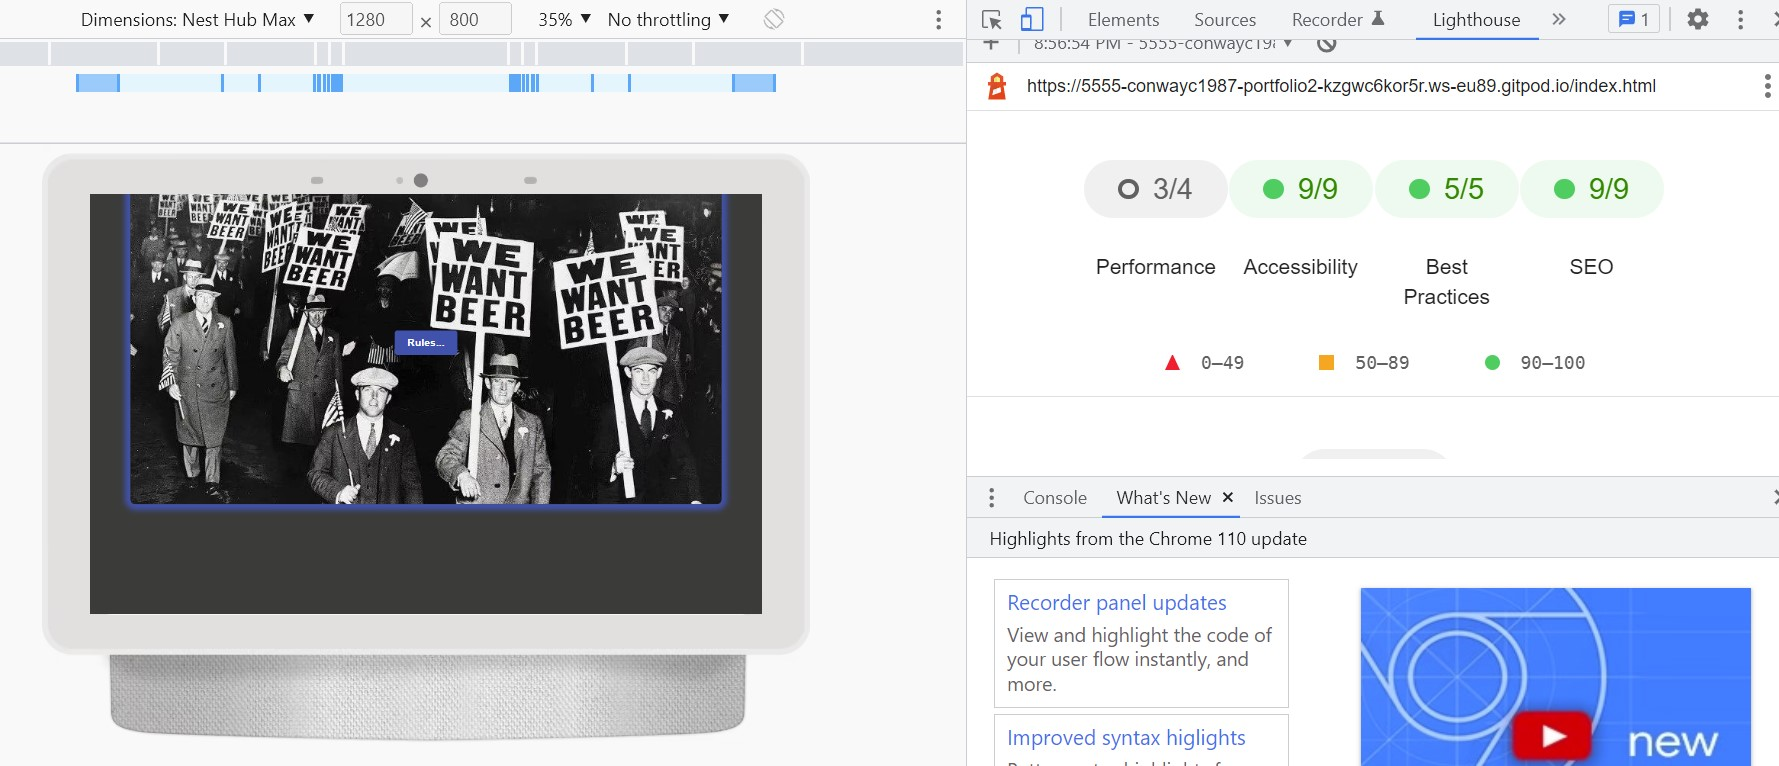
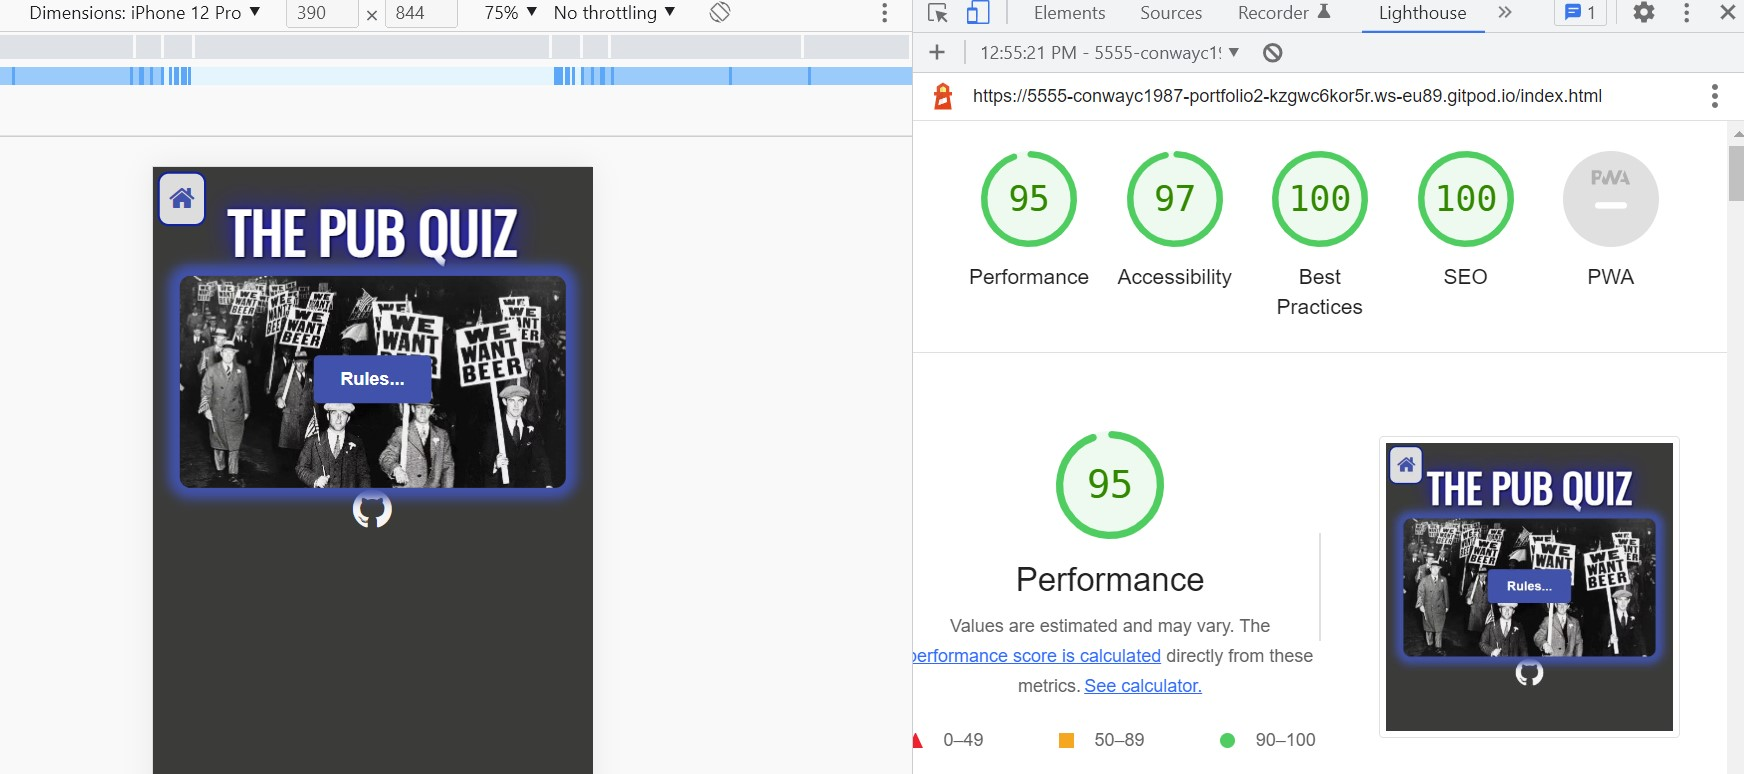
Add images for README file

diff --git a/assets/js/script.js b/assets/js/script.js
@@ -174,6 +174,7 @@ let playB = document.getElementById("play");
 playB.onclick = function () {
   modal.style.display = "none";
   document.getElementById("secondP").style.display = "none";
+  document.getElementById("githubIcon").style.display = "none";
   document.getElementById("gameTitle").style.display = "none";
   document.getElementById("gameArea").style.display = "block";
   makeQuestion();
@@ -197,8 +198,8 @@ function makeQuestion() {
   let option2 = document.getElementById("option2");
   let ques = questions[currentQ];
   question.innerHTML = "<p>" + ques.question + "</p>";
-  qImg.innerHTML = "<img src=" + ques.imgSrc + ">";
-  qImg1.innerHTML = "<img src=" + ques.imgSrc1 + ">";
+  qImg.innerHTML = "<img src=" + ques.imgSrc + " alt=" + option1 +">";
+  qImg1.innerHTML = "<img src=" + ques.imgSrc1 + " alt=" + option2 +">";
   option1.innerHTML = ques.option1;
   option2.innerHTML = ques.option2;
 }
@@ -287,13 +288,10 @@ const scoreDiv = document.getElementById("scoreContainer");
 // Function to display score results section
 function scoreRender() {
   scoreDiv.style.display = "block";
-
-
   // Calculate the amount of question percent answered by the user
   const scorePer = Math.round(100 * score / questions.length);
   document.getElementById("gameArea").style.display = "none";
   document.getElementById("modalResults").style.display = "block";
-
   scoreDiv.style.display = "block";
   scoreDiv.innerHTML += "<p>" + scorePer + "%</p>";
 

diff --git a/assets/css/style.css b/assets/css/style.css
@@ -486,12 +486,12 @@ button {
   text-align: center;
   font-weight: bolder;
 }
-
+/* Results button styling */
 #results #play:hover {
   background-color: whitesmoke;
   color: #3b51ab;
 }
-
+/* Results exist button styling */
 #results #exist {
   background-color: #3b51ab;
   color: white;
@@ -508,6 +508,17 @@ button {
   background-color: whitesmoke;
   color: #3b51ab;
 }
+/* Footer styling */
+#githubIcon {
+  padding: 10px 10px 0px 10px;
+  bottom: 0;
+  width: 100%;
+  /* Height of the footer*/
+  height: 40px;
+  background: rgba(59, 59, 57, 0);
+  margin-bottom: 1%;
+}
+
 
 /* ______________________________________Media Queries_____________________________________________*/
 
@@ -566,6 +577,9 @@ button {
 @media (max-width: 415px) {
   #counter {
     margin-left: 135px;
+  }
+  #rules {
+    padding: 5%;
   }
 
   .option-left {
@@ -768,6 +782,10 @@ button {
   }
 
   #landingPage #begin {
+    font-size: medium;
+  }
+
+  #rulesPage #rules {
     font-size: medium;
   }
 

diff --git a/index.html b/index.html
@@ -21,7 +21,7 @@
 <body>
     <header>
         <div id="navbar">
-            <button id="refresh-button"><i class="fa fa-home" aria-hidden="true"></i></button>
+            <button aria-label="home page" id="refresh-button"><i class="fa fa-home" aria-hidden="true"></i></button>
             
           </div>
         <!-- Title of the game -->
@@ -137,7 +137,7 @@
             </div>              
         </div>     
     </main>
-    <footer><a target="_blank" href="https://github.com/ConwayC1987"><i class="fa fa-github" style="font-size:48px;color:whitesmoke"></i></a></footer>
+    <footer id ="githubIcon"><a target="_blank" href="https://github.com/ConwayC1987"><i class="fa fa-github" alt="github link" style="font-size:40px;color:whitesmoke"></i></a></footer>
     <script src="assets/js/script.js"></script>
 </body>
 

diff --git a/README.md b/README.md
@@ -13,6 +13,7 @@ For `Project-2` it was decided to create a quiz game that I would like to play m
 Read more : <details>
            <summary>The Game</summary>
            <p>It was decided that I would use two options for the answers giving the user a 50/50 chance of getting it right making it more fun. 65% of people's brain work visually meaning they find it easier seeing images so it was decided that each question how have an image associated with it. The questions I decided to select involve sports, Irish politics and famous celebrities actors. I also wanted to add a countdown timer to create urgency also a way for the user to know how many questions left and how many they got correct.</p>
+           <summary>Font style</summary>
            <p>The font style that I decided to use was from google fonts Oswald and sans-serif were used.</p>
            <summary>Colors Used</summary>
            <p>The color scheme I decided on was a dark background color a light shaded black and a bright vibrant blue color to stand out. As this is a single page game the background is constant for the entire website including for pop up modals.</p>
@@ -45,11 +46,39 @@ Features used include: <details>
            <p>Designed by myself and added to make the website look a lot more professional.This will provide an image in the the tabs header to allow the user to easily identify the website if they have multiple tabs open. The favicon was made at https://www.freelogodesign.org/</p>
          </details>
 
-Header       <details>
+Header: <details>
            <summary>Navbar</summary>
            ![Website Navbar](/readMe_images/navbar.jpg "The website's navbar")    
            <summary>The navbar design</summary>
            <p>Navbar was kept very simple as it was only an one page website. A small home icon button was used so the user would always have a way of getting back to the home page</p>
+           <p>The game title clearly tells the user that its a quiz</p>
+         </details>
+
+Rules Page: <details>
+           <summary>Rules Modal</summary>
+           ![Website Rules pop out](/readMe_images/modalRules.jpg "The quiz rules")
+           <p>The modal idea was taken from w3schools and changed to suit the website. The rules were kept short and simple because it is a pub quiz.</p>    
+           <summary>The image used</summary>
+           <p>The image used for the rules page is meant to funny it is men on strike because of prohibition. This is an attempt to introduce some fun to the experience.</p>
+         </details>
+
+Game Area: <details>
+           <summary>The Game Page</summary>
+           ![Website game area](/readMe_images/gameArea.jpg "The game area")
+           <p>The websites game area, simple design using the same colour scheme throughout the website. The images stack on top of eachother in a smaller screen size.</p>    
+           <summary>The timer, progress circles and time gauge. </summary>
+           ![Website game top area](/readMe_images/gameTop.jpg "The game area with timer")
+           <p>The user is given a clock that gives the user 10 seconds to answer, when the time gets to 7 seconds the clock starts to flash red warning the user. The idea for the time gauge and progress circles part of the website was taken from https://www.youtube.com/watch?v=49pYIMygIcU and changed to suit the project.</p>
+         </details>
+The results modal: <details>
+           <summary>Results Modal</summary>
+           ![Website results area](/readMe_images/modalResults.jpg "The game result modal")
+           <p>The results modal is in the same design of the rules modal and the idea was taken from w3schools.</p>    
+         </details>
+The footer: <details>
+           <summary>Footer</summary>
+           ![Website results area](/readMe_images/footer.jpg "The game result modal")
+           <p>The results modal is in the same design of the rules modal and the idea was taken from w3schools.</p>    
          </details>
 
 ## Testing
